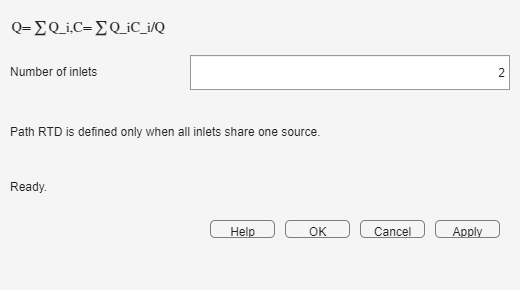
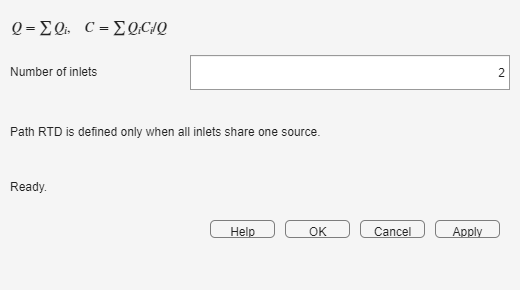
Open tracer help on its topic page and fix tracer dialog labels (T-199)
Help and library double-click open the block's guide page, the Tracer
Splitter gains Add outlet/Remove, labels no longer show raw LaTeX, and the
tracer guide images and navigation are refreshed.

Changed region(s): [[0.0, 0.0621, 0.3385, 0.1241]]

diff --git a/docs/guides/tracer-examples.html b/docs/guides/tracer-examples.html
@@ -1,9 +1,9 @@
 <!DOCTYPE html><html lang="en"><head><meta charset="utf-8"><meta name="viewport" content="width=device-width, initial-scale=1"><title>Examples - Tracer Flowsheet Guide</title><link rel="stylesheet" href="../assets/guide.css"></head><body><div class="page">
-<div class="topbar"><div class="brand">Non-ideal Tracer Flowsheet Guide</div><nav class="topnav"><a href="../TracerFlowsheetGuide.html">Guide Home</a><a href="tracer-getting-started.html">Next: Getting Started</a></nav></div><div class="crumbs"><a href="../TracerFlowsheetGuide.html">Non-ideal Tracer Flowsheet Guide</a> / <span>Worked Examples</span></div>
+<div class="topbar"><div class="brand">Non-ideal Tracer Flowsheet Guide</div><nav class="topnav"><a href="../TracerFlowsheetGuide.html">Back to guide home</a></nav></div><div class="crumbs"><a href="../TracerFlowsheetGuide.html">Non-ideal Tracer Flowsheet Guide</a> / <span>Worked Examples</span></div>
 <section class="hero"><span class="kicker">Three solved networks</span><div class="hero-grid"><div><h1>Connect the diagram to its hydrodynamic result</h1><p>Restore each example from <strong>Open example...</strong>, inspect the block settings, run it, and compare its viewer with the expected series or parallel behavior.</p></div><aside class="toc"><h2>On This Page</h2><ol><li><a href="#before">Before you start</a></li><li><a href="#two-cstr">Two CSTRs</a></li><li><a href="#parallel">PFR and CSTR</a></li><li><a href="#sec01">Former SEC01</a></li><li><a href="#mistakes">Frequent errors</a></li></ol></aside></div></section>
 <section class="section" id="before"><h2>Before You Start</h2><p>Opening an example creates or restores a writable copy. If a copy already exists, restoring it discards edits in that example. Use the examples to explore settings, then create a separate flowsheet for your own case.</p></section>
 <section class="section" id="two-cstr"><h2>Two CSTRs in Series</h2><p>Two equal CSTR blocks with &tau; = 2 s produce the analytical tanks-in-series distribution with total &tau; = 4 s and N = 2. The second vessel broadens and delays the first response; the path RTD is the convolution of both exponentials.</p><div class="card-grid"><figure class="figure-card"><img src="../assets/tracer/example-two-cstr-diagram.png" alt="Tracer example with two CSTR vessels in series"><figcaption>One source, two equal CSTR vessels, and one monitor.</figcaption></figure><figure class="figure-card"><img src="../assets/tracer/example-two-cstr-viewer.png" alt="Tracer viewer for two CSTRs in series"><figcaption>The viewer reports the series mean and variance and overlays the inlet pulse.</figcaption></figure></div></section>
 <section class="section" id="parallel"><h2>PFR and CSTR in Parallel</h2><p>The splitter sends 25% of Q through a PFR and 75% through a CSTR, both with &tau; = 3 s. The mixer creates a flow-weighted sum: a narrow plug-flow contribution appears over the broader mixed-vessel response.</p><div class="card-grid"><figure class="figure-card"><img src="../assets/tracer/example-parallel-diagram.png" alt="Tracer example with PFR and CSTR branches in parallel"><figcaption>Splitter fractions determine the contribution of each vessel at the mixer.</figcaption></figure><figure class="figure-card"><img src="../assets/tracer/example-parallel-viewer.png" alt="Tracer viewer for PFR and CSTR in parallel"><figcaption>Peak clipping exposes the broad CSTR contribution without changing results.</figcaption></figure></div></section>
 <section class="section" id="sec01"><h2>Former SEC01 Series Exercise</h2><p>The former Tab 6 series exercise is rebuilt as a visible network. A tabulated trapezoidal RTD feeds a CSTR with &tau; = 2 s. The resulting distribution matches the sequential convolution while making each physical stage explicit.</p><div class="card-grid"><figure class="figure-card"><img src="../assets/tracer/example-sec01-diagram.png" alt="Tracer SEC01 example with trapezoidal RTD and CSTR in series"><figcaption>The first vessel uses RTD data; the second uses the CSTR model.</figcaption></figure><figure class="figure-card"><img src="../assets/tracer/example-sec01-viewer.png" alt="Tracer viewer for the former SEC01 series exercise"><figcaption>The monitor presents the composed response and accumulated RTD.</figcaption></figure></div></section>
-<section class="section" id="mistakes"><h2>Frequent Errors</h2><table><tr><th>Symptom</th><th>What to do</th></tr><tr><td>An edited example is replaced</td><td>Choose the option that opens the existing copy, or save your work under another model name before restoring.</td></tr><tr><td>The parallel curve is interpreted as an unweighted average</td><td>Read the splitter fractions; the mixer weights each branch by Q.</td></tr><tr><td>SEC01 is searched for as a Tab 6 workflow</td><td>Open the tracer example; the exercise is now represented by its two vessel blocks.</td></tr></table><div class="footer-nav"><a class="button alt" href="tracer-monitor-results.html">Previous: Monitor and Results</a><a class="button" href="tracer-getting-started.html">Next: Getting Started</a></div></section>
+<section class="section" id="mistakes"><h2>Frequent Errors</h2><table><tr><th>Symptom</th><th>What to do</th></tr><tr><td>An edited example is replaced</td><td>Choose the option that opens the existing copy, or save your work under another model name before restoring.</td></tr><tr><td>The parallel curve is interpreted as an unweighted average</td><td>Read the splitter fractions; the mixer weights each branch by Q.</td></tr><tr><td>SEC01 is searched for as a Tab 6 workflow</td><td>Open the tracer example; the exercise is now represented by its two vessel blocks.</td></tr></table><div class="footer-nav"><a class="button alt" href="tracer-monitor-results.html">Previous: Monitor and Results</a><a class="button" href="../TracerFlowsheetGuide.html">Back to guide home</a></div></section>
 </div></body></html>

diff --git a/docs/guides/tracer-flowsheet.html b/docs/guides/tracer-flowsheet.html
@@ -2,7 +2,7 @@
 <div class="topbar"><div class="brand">Non-ideal Tracer Flowsheet Guide</div><nav class="topnav"><a href="../TracerFlowsheetGuide.html">Guide Home</a><a href="tracer-source.html">Next: Tracer Source</a></nav></div><div class="crumbs"><a href="../TracerFlowsheetGuide.html">Non-ideal Tracer Flowsheet Guide</a> / <span>Tracer Flowsheet</span></div>
 <section class="hero"><span class="kicker">Diagram coordinator</span><div class="hero-grid"><div><h1>Choose one time mesh for the whole diagram</h1><p>Tracer Flowsheet fixes &Delta;t, t<sub>final</sub>, and the displayed time unit. Every concentration and RTD vector in the model uses the same samples.</p></div><aside class="toc"><h2>On This Page</h2><ol><li><a href="#before">Before you start</a></li><li><a href="#dialog">Dialog</a></li><li><a href="#steps">Steps</a></li><li><a href="#truncation">Lost area</a></li><li><a href="#mistakes">Frequent errors</a></li></ol></aside></div></section>
 <section class="section" id="before"><h2>Before You Start</h2><p>Estimate the longest residence time and tail in the network. Select a final time that includes them and a time step small enough for pulses, plug-flow peaks, and sharp input changes.</p></section>
-<section class="section" id="dialog"><h2>Tracer Flowsheet Dialog</h2><figure class="figure-card"><img src="../assets/tracer/flowsheet-dialog.png" alt="Tracer Flowsheet dialog with time step, final time, and time unit"><figcaption>The coordinator applies one fixed vector t = 0:&Delta;t:t<sub>final</sub> to every tracer block.</figcaption></figure></section>
+<section class="section" id="dialog"><h2>Tracer Flowsheet Dialog</h2><figure class="figure-card"><img src="../assets/tracer/flowsheet-dialog.png" alt="Tracer Flowsheet dialog with time step, final time, and time unit"><figcaption>The coordinator applies one time vector from 0 to t<sub>final</sub> in steps of &Delta;t to every tracer block.</figcaption></figure></section>
 <section class="section" id="steps"><h2>Set the Grid</h2><ol><li>Enter a positive <strong>Time step, &Delta;t</strong>.</li><li>Enter a <strong>Final time, t<sub>final</sub></strong> greater than the time step.</li><li>Select seconds, minutes, or hours. The displayed values change unit; all blocks remain synchronized.</li><li>Press <strong>Apply</strong>, then run the diagram.</li></ol></section>
 <section class="section" id="truncation"><h2>Understand Lost Area</h2><p>Convolution may produce a tail after t<sub>final</sub>. Those samples cannot appear in the fixed output vector. The monitor compares the retained and expected areas; when the loss exceeds its threshold, increase t<sub>final</sub>. A default warning near 1% is a practical prompt, not a new normalization.</p></section>
 <section class="section" id="mistakes"><h2>Frequent Errors</h2><table><tr><th>Symptom</th><th>What to do</th></tr><tr><td>Narrow peaks look stepped</td><td>Reduce &Delta;t.</td></tr><tr><td>Recovery is low and a lost-area warning appears</td><td>Increase t<sub>final</sub>.</td></tr><tr><td>Blocks report inconsistent vector sizes</td><td>Apply the coordinator settings and run the complete model again.</td></tr></table><div class="footer-nav"><a class="button alt" href="tracer-getting-started.html">Previous: Getting Started</a><a class="button" href="tracer-source.html">Next: Tracer Source</a></div></section>

diff --git a/docs/guides/tracer-splitter.html b/docs/guides/tracer-splitter.html
@@ -3,7 +3,7 @@
 <section class="hero"><span class="kicker">Parallel paths</span><div class="hero-grid"><div><h1>Divide volumetric flow without changing C(t) or E(t)</h1><p>The splitter creates two or more branches. It scales Q by each fraction while copying the incoming concentration and accumulated RTD to every outlet.</p></div><aside class="toc"><h2>On This Page</h2><ol><li><a href="#before">Before you start</a></li><li><a href="#dialog">Dialog</a></li><li><a href="#steps">Steps</a></li><li><a href="#meaning">Physical meaning</a></li><li><a href="#mistakes">Frequent errors</a></li></ol></aside></div></section>
 <section class="section" id="before"><h2>Before You Start</h2><p>Decide how many paths are required and the fraction of inlet volumetric flow assigned to each. Every branch must eventually terminate at a monitor or return through a matching mixer.</p></section>
 <section class="section" id="dialog"><h2>Tracer Splitter Dialog</h2><figure class="figure-card"><img src="../assets/tracer/splitter-dialog.png" alt="Tracer Splitter dialog with outlet fraction table"><figcaption>Specify all but the last fraction; the remaining fraction is calculated so the total is one.</figcaption></figure></section>
-<section class="section" id="steps"><h2>Configure the Outlets</h2><ol><li>Set the required number of splitter output ports on the block.</li><li>Enter the first N&minus;1 fractions in the table.</li><li>Check the calculated final row and press <strong>Apply</strong>.</li><li>Connect each outlet to its vessel path and use a Tracer Mixer when the paths rejoin.</li></ol></section>
+<section class="section" id="steps"><h2>Configure the Outlets</h2><ol><li>Press <strong>Add outlet</strong> until the table has one row for every required branch. The splitter always keeps at least two outlets.</li><li>Use <strong>Remove</strong> to delete the last outlet when there are too many rows.</li><li>Enter the first N&minus;1 fractions in the table and check the calculated final row.</li><li>Press <strong>Apply</strong> so the block exposes the matching output ports.</li><li>Connect each outlet to its vessel path and use a Tracer Mixer when the paths rejoin.</li></ol></section>
 <section class="section" id="meaning"><h2>Interpret a Split</h2><p>A hydraulic split does not dilute the tracer at the split point: all branches receive the same concentration. Only Q changes. Differences in downstream C(t) and E(t) are created by the vessels on each branch.</p></section>
 <section class="section" id="mistakes"><h2>Frequent Errors</h2><table><tr><th>Symptom</th><th>What to do</th></tr><tr><td>The final fraction is zero or negative</td><td>Reduce the specified fractions so their sum is below one.</td></tr><tr><td>Fractions do not add to one</td><td>Enter only N&minus;1 values and let the final row be calculated.</td></tr><tr><td>A branch is left disconnected</td><td>Connect or remove it before running the complete network.</td></tr></table><div class="footer-nav"><a class="button alt" href="tracer-vessel.html">Previous: Non-ideal Vessel</a><a class="button" href="tracer-mixer.html">Next: Tracer Mixer</a></div></section>
 </div></body></html>

diff --git a/+nirp/+tracerflowsheet/SplitterDialog.m b/+nirp/+tracerflowsheet/SplitterDialog.m
@@ -8,16 +8,21 @@ classdef SplitterDialog < handle
     methods
         function obj=SplitterDialog(block,varargin),p=inputParser;addParameter(p,'Visible','on');parse(p,varargin{:});obj.BlockPath=getfullname(block);assertSystem(obj.BlockPath,'nirp.tracerblocks.Splitter');obj.build(char(p.Results.Visible));obj.setFractions(str2num(get_param(obj.BlockPath,'Fractions')));end %#ok<ST2NM>
         function delete(obj),if ~isempty(obj.Figure)&&isvalid(obj.Figure),delete(obj.Figure),end,end
-        function setFractions(obj,f),f=reshape(f,1,[]);remainder=1-sum(f);obj.FractionTable.Data=num2cell([(1:numel(f)+1)' [f remainder]']);end
+        function setFractions(obj,f),f=reshape(f,1,[]);remainder=1-sum(f);outlets=cellstr(string((1:numel(f)+1)'));obj.FractionTable.Data=[outlets num2cell([f remainder]')];end
         function addRow(obj),d=obj.FractionTable.Data;specified=cell2mat(d(1:end-1,2));specified(end+1)=0;obj.setFractions(specified);end
         function removeRow(obj),d=obj.FractionTable.Data;if size(d,1)>2,obj.setFractions(cell2mat(d(1:end-2,2)));end,end
         function value=getValues(obj),d=obj.FractionTable.Data;value=cell2mat(d(:,2))';end
-        function ok=apply(obj),ok=false;try,nirp.tracerflowsheet.validateSeparation(bdroot(obj.BlockPath));values=obj.getValues();specified=values(1:end-1);[~,closed]=nirp.tracer.splitter(nirp.tracerflowsheet.gridForBlock(obj.BlockPath),nirp.tracer.source(nirp.tracerflowsheet.gridForBlock(obj.BlockPath),1,ones(1,nirp.tracerflowsheet.gridForBlock(obj.BlockPath).length),1),specified);obj.setFractions(specified);set_param(obj.BlockPath,'Fractions',mat2str(specified,17));obj.StatusLabel.Text=sprintf('Fully specified; calculated final fraction = %.6g',closed(end));obj.StatusLabel.BackgroundColor=[.82 .94 .82];ok=true;catch e,obj.StatusLabel.Text=e.message;obj.StatusLabel.BackgroundColor=[1 .75 .75];end,end
+        function ok=apply(obj),ok=false;try,nirp.tracerflowsheet.validateSeparation(bdroot(obj.BlockPath));values=obj.getValues();specified=values(1:end-1);[~,closed]=nirp.tracer.splitter(nirp.tracerflowsheet.gridForBlock(obj.BlockPath),nirp.tracer.source(nirp.tracerflowsheet.gridForBlock(obj.BlockPath),1,ones(1,nirp.tracerflowsheet.gridForBlock(obj.BlockPath).length),1),specified);obj.setFractions(specified);set_param(obj.BlockPath,'Fractions',mat2str(specified,17));set_param(bdroot(obj.BlockPath),'SimulationCommand','update');obj.StatusLabel.Text=sprintf('Fully specified; calculated final fraction = %.6g',closed(end));obj.StatusLabel.BackgroundColor=[.82 .94 .82];ok=true;catch e,obj.StatusLabel.Text=e.message;obj.StatusLabel.BackgroundColor=[1 .75 .75];end,end
         function accept(obj),if obj.apply(),delete(obj),end,end
         function cancel(obj),delete(obj),end
     end
-    methods (Static),function dialog=open(block),dialog=nirp.tracerflowsheet.SplitterDialog(block);end,end
-    methods (Access=private),function build(obj,visible),obj.Figure=uifigure('Name','Tracer Splitter','Tag','NirpTracerSplitterDialog','Visible',visible,'Position',[220 120 560 430]);g=uigridlayout(obj.Figure,[4 3],'RowHeight',{45,'1x',25,38},'ColumnWidth',{90,90,'1x'});note=uilabel(g,'Text','Specify N-1 fractions; the last outlet is calculated from \sum f_i=1.','Interpreter','latex');note.Layout.Column=[1 3];obj.FractionTable=uitable(g,'ColumnName',{'Outlet','Fraction'},'ColumnEditable',[false true]);obj.FractionTable.Layout.Column=[1 3];obj.StatusLabel=uilabel(g,'Text','Ready.','WordWrap','on');obj.StatusLabel.Layout.Column=[1 3];buttons(obj,g,'splitter');end,end
+    methods (Static)
+        function dialog=open(block)
+            if nirp.tracerflowsheet.openLibraryBlockGuide(block),dialog=[];return,end
+            dialog=nirp.tracerflowsheet.SplitterDialog(block);
+        end
+    end
+    methods (Access=private),function build(obj,visible),obj.Figure=uifigure('Name','Tracer Splitter','Tag','NirpTracerSplitterDialog','Visible',visible,'Position',[220 120 560 430]);g=uigridlayout(obj.Figure,[5 3],'RowHeight',{45,'1x',32,25,38},'ColumnWidth',{90,90,'1x'});note=uilabel(g,'Text','Specify N-1 fractions; the last outlet is calculated so all fractions sum to 1.');note.Layout.Row=1;note.Layout.Column=[1 3];obj.FractionTable=uitable(g,'ColumnName',{'Outlet','Fraction'},'ColumnEditable',[false true]);obj.FractionTable.Layout.Row=2;obj.FractionTable.Layout.Column=[1 3];add=uibutton(g,'Text','Add outlet','ButtonPushedFcn',@(~,~)obj.addRow());add.Layout.Row=3;add.Layout.Column=1;remove=uibutton(g,'Text','Remove','ButtonPushedFcn',@(~,~)obj.removeRow());remove.Layout.Row=3;remove.Layout.Column=2;obj.StatusLabel=uilabel(g,'Text','Ready.','WordWrap','on');obj.StatusLabel.Layout.Row=4;obj.StatusLabel.Layout.Column=[1 3];buttons(obj,g,'splitter');end,end
 end
 function assertSystem(block,expected),if string(get_param(block,'System'))~=expected,error('nirp:tracerflowsheet:InvalidBlock','Dialog received the wrong block type.'),end,end
-function buttons(obj,g,anchor),b=uigridlayout(g,[1 5],'ColumnWidth',{'1x',65,65,65,65});b.Layout.Column=[1 3];uilabel(b,'Text','');uibutton(b,'Text','Help','ButtonPushedFcn',@(~,~)openNirpGuide(nirp.tracerflowsheet.helpTarget(anchor)));uibutton(b,'Text','OK','ButtonPushedFcn',@(~,~)obj.accept());uibutton(b,'Text','Cancel','ButtonPushedFcn',@(~,~)obj.cancel());uibutton(b,'Text','Apply','ButtonPushedFcn',@(~,~)obj.apply());end
+function buttons(obj,g,anchor),b=uigridlayout(g,[1 5],'ColumnWidth',{'1x',65,65,65,65});b.Layout.Row=5;b.Layout.Column=[1 3];uilabel(b,'Text','');uibutton(b,'Text','Help','ButtonPushedFcn',@(~,~)openNirpGuide(nirp.tracerflowsheet.helpTarget(anchor)));uibutton(b,'Text','OK','ButtonPushedFcn',@(~,~)obj.accept());uibutton(b,'Text','Cancel','ButtonPushedFcn',@(~,~)obj.cancel());uibutton(b,'Text','Apply','ButtonPushedFcn',@(~,~)obj.apply());end

diff --git a/tests/NirpTracerBlocksTest.m b/tests/NirpTracerBlocksTest.m
@@ -36,8 +36,24 @@ classdef NirpTracerBlocksTest < matlab.unittest.TestCase
             m=nirp.tracerflowsheet.MixerDialog([name '/Mixer'],'Visible','off');m.setNumInputs(3);testCase.verifyTrue(m.apply());delete(m);m=nirp.tracerflowsheet.MixerDialog([name '/Mixer'],'Visible','off');testCase.verifyEqual(m.getValues(),3);delete(m);
             monitor=nirp.tracerflowsheet.MonitorDialog([name '/Monitor'],'Visible','off');monitor.WarningField.Value=2;testCase.verifyTrue(monitor.apply());delete(monitor);monitor=nirp.tracerflowsheet.MonitorDialog([name '/Monitor'],'Visible','off');testCase.verifyEqual(monitor.getValues(),0.02,'AbsTol',1e-14);delete(monitor);
         end
+        function splitterButtonsChangeOutletCountAndPorts(testCase)
+            name='tracer_splitter_dialog';nirp.tracerflowsheet.new(name,testCase.Folder,'OpenModel',false);load_system(fullfile(testCase.Folder,[name '.slx']));
+            addTracer(name,'Splitter','nirp.tracerblocks.Splitter',[240 150 390 230],{});block=[name '/Splitter'];dialog=nirp.tracerflowsheet.SplitterDialog(block,'Visible','off');testCase.addTeardown(@()deleteValid(dialog));
+            add=findall(dialog.Figure,'Type','uibutton','Text','Add outlet');remove=findall(dialog.Figure,'Type','uibutton','Text','Remove');testCase.verifyNumElements(add,1);testCase.verifyNumElements(remove,1);
+            feval(add.ButtonPushedFcn,add,[]);testCase.verifyEqual(size(dialog.FractionTable.Data,1),3);testCase.verifyEqual(dialog.FractionTable.Data(:,1),{'1';'2';'3'});testCase.verifyTrue(dialog.apply());testCase.verifyEqual(str2num(get_param(block,'Fractions')),[0.5 0],'AbsTol',1e-14);ports=get_param(block,'PortHandles');testCase.verifyNumElements(ports.Outport,3); %#ok<ST2NM>
+            feval(remove.ButtonPushedFcn,remove,[]);feval(remove.ButtonPushedFcn,remove,[]);testCase.verifyEqual(size(dialog.FractionTable.Data,1),2);
+            dialog.setFractions([0.8 0.4]);testCase.verifyFalse(dialog.apply());testCase.verifyEqual(str2num(get_param(block,'Fractions')),[0.5 0],'AbsTol',1e-14); %#ok<ST2NM>
+        end
+        function tracerDialogLatexCommandsAreDelimited(testCase)
+            name='tracer_dialog_labels';nirp.tracerflowsheet.new(name,testCase.Folder,'OpenModel',false);load_system(fullfile(testCase.Folder,[name '.slx']));
+            addTracer(name,'Source','nirp.tracerblocks.Source',[40 150 170 210],{});addTracer(name,'Vessel','nirp.tracerblocks.Vessel',[230 150 370 210],{});addTracer(name,'Splitter','nirp.tracerblocks.Splitter',[430 150 570 210],{});addTracer(name,'Mixer','nirp.tracerblocks.Mixer',[430 260 570 320],{});addTracer(name,'Monitor','nirp.tracerblocks.Monitor',[630 150 760 210],{});
+            dialogs={nirp.tracerflowsheet.FlowsheetDialog([name '/Tracer Flowsheet'],'Visible','off'),nirp.tracerflowsheet.SourceDialog([name '/Source'],'Visible','off'),nirp.tracerflowsheet.VesselDialog([name '/Vessel'],'Visible','off'),nirp.tracerflowsheet.SplitterDialog([name '/Splitter'],'Visible','off'),nirp.tracerflowsheet.MixerDialog([name '/Mixer'],'Visible','off'),nirp.tracerflowsheet.MonitorDialog([name '/Monitor'],'Visible','off')};testCase.addTeardown(@()deleteDialogs(dialogs));
+            for dialogIndex=1:numel(dialogs),labels=findall(dialogs{dialogIndex}.Figure,'Type','uilabel');for labelIndex=1:numel(labels),text=string(labels(labelIndex).Text);if strcmpi(labels(labelIndex).Interpreter,'latex')&&contains(text,'\'),testCase.verifyTrue(startsWith(text,'$')&&endsWith(text,'$'),sprintf('Undelimited LaTeX in %s: %s',class(dialogs{dialogIndex}),text));elseif ~strcmpi(labels(labelIndex).Interpreter,'latex'),testCase.verifyFalse(contains(text,'\'),sprintf('Backslash in plain label from %s: %s',class(dialogs{dialogIndex}),text));end,end,end
+        end
     end
 end
 function addTracer(model,name,system,position,parameters),block=[model '/' name];add_block('simulink/User-Defined Functions/MATLAB System',block,'System',system,'Position',position);for k=1:2:numel(parameters),set_param(block,parameters{k},parameters{k+1});end;nirp.tracerflowsheet.setupBlock(block);end
 function configure(name),set_param(name,'SolverType','Fixed-step','Solver','FixedStepDiscrete','FixedStep','0.05','StartTime','0','StopTime','0');save_system(name);end
 function closeAllModels(),models=find_system('Type','block_diagram');for k=1:numel(models),try,close_system(models{k},0);catch,end,end;end
+function deleteValid(value),if ~isempty(value)&&isvalid(value),delete(value);end,end
+function deleteDialogs(values),for k=1:numel(values),deleteValid(values{k});end,end

diff --git a/+nirp/+tracerflowsheet/VesselDialog.m b/+nirp/+tracerflowsheet/VesselDialog.m
@@ -25,10 +25,15 @@ classdef VesselDialog < handle
         function accept(obj),if obj.apply(),delete(obj),end,end
         function cancel(obj),delete(obj),end
     end
-    methods (Static),function dialog=open(block),dialog=nirp.tracerflowsheet.VesselDialog(block);end,end
+    methods (Static)
+        function dialog=open(block)
+            if nirp.tracerflowsheet.openLibraryBlockGuide(block),dialog=[];return,end
+            dialog=nirp.tracerflowsheet.VesselDialog(block);
+        end
+    end
     methods (Access=private)
         function load(obj),obj.OriginDropDown.Value=get_param(obj.BlockPath,'Origin');obj.ModelDropDown.Value=get_param(obj.BlockPath,'Model');obj.BasisDropDown.Value=get_param(obj.BlockPath,'ResidenceBasis');obj.TauField.Value=str2double(get_param(obj.BlockPath,'Tau'));obj.VolumeField.Value=str2double(get_param(obj.BlockPath,'Volume'));obj.NField.Value=str2double(get_param(obj.BlockPath,'N'));obj.PeField.Value=str2double(get_param(obj.BlockPath,'Pe'));obj.BoundaryDropDown.Value=get_param(obj.BlockPath,'Boundary');obj.DataTable.Data=num2cell([str2num(get_param(obj.BlockPath,'DataTime'))' str2num(get_param(obj.BlockPath,'DataE'))']);obj.SessionField.Value=get_param(obj.BlockPath,'SessionFile');end %#ok<ST2NM>
-        function build(obj,visible),obj.Figure=uifigure('Name','Non-ideal Vessel','Tag','NirpTracerVesselDialog','Visible',visible,'Position',[170 80 780 620]);g=uigridlayout(obj.Figure,[10 3],'RowHeight',{35,35,35,35,35,35,35,'1x',25,38},'ColumnWidth',{170,'1x',120});title=uilabel(g,'Text','C_{out}(t)=C_{in}(t)*E_v(t)','Interpreter','latex','FontWeight','bold');title.Layout.Column=[1 3];uilabel(g,'Text','RTD origin');obj.OriginDropDown=uidropdown(g,'Items',{'Model','Data','Session'});uilabel(g,'Text','');uilabel(g,'Text','Model');obj.ModelDropDown=uidropdown(g,'Items',{'CSTR','PFR','Tanks','Dispersion'});obj.BasisDropDown=uidropdown(g,'Items',{'Tau','Volume'});uilabel(g,'Text','Residence time, \tau (s)','Interpreter','latex');obj.TauField=uieditfield(g,'numeric');uilabel(g,'Text','');uilabel(g,'Text','Volume, V (m^3)','Interpreter','latex');obj.VolumeField=uieditfield(g,'numeric');uilabel(g,'Text','');uilabel(g,'Text','Tanks, N');obj.NField=uieditfield(g,'numeric');uilabel(g,'Text','');uilabel(g,'Text','Peclet number, Pe');obj.PeField=uieditfield(g,'numeric');obj.BoundaryDropDown=uidropdown(g,'Items',{'open','closed'});uilabel(g,'Text','Session (.mat)');obj.SessionField=uieditfield(g,'text');uilabel(g,'Text','');obj.DataTable=uitable(g,'ColumnName',{'t (s)','E (1/s)'},'ColumnEditable',true);obj.DataTable.Layout.Column=[1 3];obj.StatusLabel=uilabel(g,'Text','Ready.','WordWrap','on');obj.StatusLabel.Layout.Column=[1 3];buttons(obj,g,'vessel');end
+        function build(obj,visible),obj.Figure=uifigure('Name','Non-ideal Vessel','Tag','NirpTracerVesselDialog','Visible',visible,'Position',[170 80 780 620]);g=uigridlayout(obj.Figure,[10 3],'RowHeight',{35,35,35,35,35,35,35,'1x',25,38},'ColumnWidth',{170,'1x',120});title=uilabel(g,'Text','$C_{out}(t)=C_{in}(t)*E_v(t)$','Interpreter','latex','FontWeight','bold');title.Layout.Column=[1 3];uilabel(g,'Text','RTD origin');obj.OriginDropDown=uidropdown(g,'Items',{'Model','Data','Session'});uilabel(g,'Text','');uilabel(g,'Text','Model');obj.ModelDropDown=uidropdown(g,'Items',{'CSTR','PFR','Tanks','Dispersion'});obj.BasisDropDown=uidropdown(g,'Items',{'Tau','Volume'});uilabel(g,'Text','Residence time, τ (s)');obj.TauField=uieditfield(g,'numeric');uilabel(g,'Text','');uilabel(g,'Text','Volume, V (m³)');obj.VolumeField=uieditfield(g,'numeric');uilabel(g,'Text','');uilabel(g,'Text','Tanks, N');obj.NField=uieditfield(g,'numeric');uilabel(g,'Text','');uilabel(g,'Text','Peclet number, Pe');obj.PeField=uieditfield(g,'numeric');obj.BoundaryDropDown=uidropdown(g,'Items',{'open','closed'});uilabel(g,'Text','Session (.mat)');obj.SessionField=uieditfield(g,'text');uilabel(g,'Text','');obj.DataTable=uitable(g,'ColumnName',{'t (s)','E (1/s)'},'ColumnEditable',true);obj.DataTable.Layout.Column=[1 3];obj.StatusLabel=uilabel(g,'Text','Ready.','WordWrap','on');obj.StatusLabel.Layout.Column=[1 3];buttons(obj,g,'vessel');end
     end
 end
 function assertSystem(block,expected),if string(get_param(block,'System'))~=expected,error('nirp:tracerflowsheet:InvalidBlock','Dialog received the wrong block type.'),end,end

diff --git a/+nirp/+tracerflowsheet/SourceDialog.m b/+nirp/+tracerflowsheet/SourceDialog.m
@@ -26,10 +26,15 @@ classdef SourceDialog < handle
         function accept(obj),if obj.apply(),delete(obj),end,end
         function cancel(obj),delete(obj),end
     end
-    methods (Static),function dialog=open(block),dialog=nirp.tracerflowsheet.SourceDialog(block);end,end
+    methods (Static)
+        function dialog=open(block)
+            if nirp.tracerflowsheet.openLibraryBlockGuide(block),dialog=[];return,end
+            dialog=nirp.tracerflowsheet.SourceDialog(block);
+        end
+    end
     methods (Access=private)
         function load(obj),obj.QUnitDropDown.Value=get_param(obj.BlockPath,'QUnit');obj.QField.Value=UnitConverterHelper.convertFromSI('VolumetricFlow',str2double(get_param(obj.BlockPath,'Q')),obj.QUnitDropDown.Value);mode=get_param(obj.BlockPath,'SignalMode');if strcmpi(mode,'Data'),obj.setData(str2num(get_param(obj.BlockPath,'DataTime')),str2num(get_param(obj.BlockPath,'DataConcentration')));else,obj.setFunction(str2num(get_param(obj.BlockPath,'FunctionEdges')),eval(get_param(obj.BlockPath,'FunctionExpressions')));end,end %#ok<ST2NM,EVLDIR>
-        function build(obj,visible),obj.Figure=uifigure('Name','Tracer Source','Tag','NirpTracerSourceDialog','Visible',visible,'Position',[180 100 720 520]);g=uigridlayout(obj.Figure,[6 3],'RowHeight',{35,35,35,'1x',25,38},'ColumnWidth',{150,'1x',230});t=uilabel(g,'Text','Tracer inlet, C_{in}(t)','Interpreter','latex','FontWeight','bold');t.Layout.Column=[1 3];uilabel(g,'Text','Volumetric flow, Q');obj.QField=uieditfield(g,'numeric');obj.QUnitDropDown=uidropdown(g,'Items',UnitConverterHelper.getUnits('VolumetricFlow'));uilabel(g,'Text','Signal definition');obj.ModeDropDown=uidropdown(g,'Items',{'Data','Function'});panel=uigridlayout(g,[1 3],'ColumnWidth',{65,75,75});uibutton(panel,'Text','Add row','ButtonPushedFcn',@(~,~)obj.addRow());uibutton(panel,'Text','Remove','ButtonPushedFcn',@(~,~)obj.removeRow());uibutton(panel,'Text','Import...','ButtonPushedFcn',@(~,~)obj.importInteractive());obj.SignalTable=uitable(g,'ColumnEditable',true);obj.SignalTable.Layout.Column=[1 3];obj.StatusLabel=uilabel(g,'Text','Ready.','WordWrap','on');obj.StatusLabel.Layout.Column=[1 3];buttons(obj,g,'source');end
+        function build(obj,visible),obj.Figure=uifigure('Name','Tracer Source','Tag','NirpTracerSourceDialog','Visible',visible,'Position',[180 100 720 520]);g=uigridlayout(obj.Figure,[6 3],'RowHeight',{35,35,35,'1x',25,38},'ColumnWidth',{150,'1x',230});t=uilabel(g,'Text','$\mathrm{Tracer\ inlet},\ C_{in}(t)$','Interpreter','latex','FontWeight','bold');t.Layout.Column=[1 3];uilabel(g,'Text','Volumetric flow, Q');obj.QField=uieditfield(g,'numeric');obj.QUnitDropDown=uidropdown(g,'Items',UnitConverterHelper.getUnits('VolumetricFlow'));uilabel(g,'Text','Signal definition');obj.ModeDropDown=uidropdown(g,'Items',{'Data','Function'});panel=uigridlayout(g,[1 3],'ColumnWidth',{65,75,75});uibutton(panel,'Text','Add row','ButtonPushedFcn',@(~,~)obj.addRow());uibutton(panel,'Text','Remove','ButtonPushedFcn',@(~,~)obj.removeRow());uibutton(panel,'Text','Import...','ButtonPushedFcn',@(~,~)obj.importInteractive());obj.SignalTable=uitable(g,'ColumnEditable',true);obj.SignalTable.Layout.Column=[1 3];obj.StatusLabel=uilabel(g,'Text','Ready.','WordWrap','on');obj.StatusLabel.Layout.Column=[1 3];buttons(obj,g,'source');end
     end
 end
 function text=cellLiteral(values),quoted="'"+replace(values,"'","''")+"'";text=['{' char(strjoin(quoted,',')) '}'];end

diff --git a/tests/NirpLibraryGuidesTest.m b/tests/NirpLibraryGuidesTest.m
@@ -2,7 +2,7 @@ classdef NirpLibraryGuidesTest < matlab.unittest.TestCase
     % NirpLibraryGuidesTest verifies help opened from library block callbacks.
     % =====================================================================
     % Javier Berenguer Sabater
-    % Created: October 17, 2026. Last update: October 17, 2026
+    % Created: October 17, 2026. Last update: October 22, 2026
     % =====================================================================
 
     methods (Test)
@@ -45,12 +45,59 @@ classdef NirpLibraryGuidesTest < matlab.unittest.TestCase
                 openedPath = string(relativePath) ;
             end
         end
+
+        function everyTracerLibraryBlockOpensItsTopicGuide(testCase)
+            import matlab.unittest.fixtures.TemporaryFolderFixture
+            root = fileparts(fileparts(mfilename('fullpath'))) ;
+            fixture = testCase.applyFixture(TemporaryFolderFixture) ;
+            simulinkFolder = fullfile(root, 'simulink') ;
+            addpath(simulinkFolder) ;
+            testCase.addTeardown(@() rmpath(simulinkFolder)) ;
+            libraryFile = build_tracer_library(fixture.Folder) ;
+            load_system(libraryFile) ;
+            testCase.addTeardown(@() closeTracerLibrary()) ;
+
+            openedPath = "" ;
+            setappdata(groot, 'NirpGuideOpenOverride', @recordGuidePath) ;
+            testCase.addTeardown(@() clearGuideOverride()) ;
+            expected = { ...
+                'Tracer Flowsheet', 'guides/tracer-flowsheet.html#dialog' ; ...
+                'Tracer Source', 'guides/tracer-source.html#dialog' ; ...
+                'Non-ideal Vessel', 'guides/tracer-vessel.html#dialog' ; ...
+                'Tracer Splitter', 'guides/tracer-splitter.html#dialog' ; ...
+                'Tracer Mixer', 'guides/tracer-mixer.html#dialog' ; ...
+                'Tracer Monitor', 'guides/tracer-monitor-results.html#dialog'} ;
+            dialogTags = ["NirpTracerFlowsheetDialog", ...
+                "NirpTracerSourceDialog", "NirpTracerVesselDialog", ...
+                "NirpTracerSplitterDialog", "NirpTracerMixerDialog", ...
+                "NirpTracerMonitorDialog"] ;
+
+            for index = 1:size(expected, 1)
+                openedPath = "" ;
+                block = ['NirpTracerLibrary/' expected{index, 1}] ;
+                open_system(block) ;
+                testCase.verifyEqual(openedPath, string(expected{index, 2}), ...
+                    sprintf('Wrong guide opened by %s.', block)) ;
+                testCase.verifyEmpty(findall(groot, 'Tag', dialogTags(index)), ...
+                    sprintf('%s opened a dialog from the library.', block)) ;
+            end
+
+            function recordGuidePath(relativePath)
+                openedPath = string(relativePath) ;
+            end
+        end
     end
 end
 
 function closeLibrary()
     if bdIsLoaded('NirpLibrary')
         close_system('NirpLibrary', 0) ;
+    end
+end
+
+function closeTracerLibrary()
+    if bdIsLoaded('NirpTracerLibrary')
+        close_system('NirpTracerLibrary', 0) ;
     end
 end
 

diff --git a/tests/NirpGuidesTest.m b/tests/NirpGuidesTest.m
@@ -67,15 +67,22 @@ classdef NirpGuidesTest < matlab.unittest.TestCase
 
         function tracerHelpTargetsHaveAnchorsOnTheirOwnGuide(testCase)
             root = fileparts(fileparts(mfilename('fullpath'))) ;
-            page = fullfile(root, 'docs', 'TracerFlowsheetGuide.html') ;
-            html = string(fileread(page)) ;
-            anchors = ["flowsheet", "source", "vessel", "splitter", ...
-                "mixer", "monitor"] ;
-            for anchor = anchors
-                target = string(nirp.tracerflowsheet.helpTarget(anchor)) ;
-                testCase.verifyEqual(target, ...
-                    "TracerFlowsheetGuide.html#" + anchor) ;
-                testCase.verifySubstring(html, "id=""" + anchor + """") ;
+            expected = { ...
+                'flowsheet', 'tracer-flowsheet.html' ; ...
+                'source', 'tracer-source.html' ; ...
+                'vessel', 'tracer-vessel.html' ; ...
+                'splitter', 'tracer-splitter.html' ; ...
+                'mixer', 'tracer-mixer.html' ; ...
+                'monitor', 'tracer-monitor-results.html'} ;
+            for index = 1:size(expected, 1)
+                target = string(nirp.tracerflowsheet.helpTarget( ...
+                    expected{index, 1})) ;
+                relativePage = "guides/" + expected{index, 2} ;
+                testCase.verifyEqual(target, relativePage + "#dialog") ;
+                page = fullfile(root, 'docs', 'guides', ...
+                    expected{index, 2}) ;
+                html = string(fileread(page)) ;
+                testCase.verifySubstring(html, 'id="dialog"') ;
             end
         end
 
@@ -328,7 +335,7 @@ classdef NirpGuidesTest < matlab.unittest.TestCase
                 "tracer-splitter.html", "tracer-mixer.html", ...
                 "tracer-monitor-results.html", "tracer-examples.html"] ;
             required = ["hero-grid", "aside class=""toc""", ...
-                "Before You Start", "Previous", "Next"] ;
+                "Before You Start", "Previous"] ;
             for name = names
                 page = fullfile(root, 'docs', 'guides', name) ;
                 html = string(fileread(page)) ;
@@ -336,6 +343,14 @@ classdef NirpGuidesTest < matlab.unittest.TestCase
                     testCase.verifySubstring(html, token, sprintf( ...
                         '%s is missing required topic structure: %s', page, token)) ;
                 end
+                if name == "tracer-examples.html"
+                    finalLink = "Back to guide home" ;
+                else
+                    finalLink = "Next" ;
+                end
+                testCase.verifySubstring(html, finalLink, sprintf( ...
+                    '%s is missing required topic navigation: %s', ...
+                    page, finalLink)) ;
             end
         end
     end

diff --git a/+nirp/+tracerflowsheet/MonitorDialog.m b/+nirp/+tracerflowsheet/MonitorDialog.m
@@ -13,7 +13,12 @@ classdef MonitorDialog < handle
         function accept(obj),if obj.apply(),delete(obj),end,end
         function cancel(obj),delete(obj),end
     end
-    methods (Static),function dialog=open(block),dialog=nirp.tracerflowsheet.MonitorDialog(block);end,end
-    methods (Access=private),function build(obj,visible),obj.Figure=uifigure('Name','Tracer Monitor','Tag','NirpTracerMonitorDialog','Visible',visible,'Position',[230 140 600 340]);g=uigridlayout(obj.Figure,[6 2],'RowHeight',{35,55,35,55,25,38},'ColumnWidth',{220,'1x'});t=uilabel(g,'Text','C(t), \tau, \sigma^2, \sigma_\theta^2, N\approx1/\sigma_\theta^2','Interpreter','latex','FontWeight','bold');t.Layout.Column=[1 2];note=uilabel(g,'Text','The source signal is retained by sourceId; the accumulated E is the network RTD.','WordWrap','on');note.Layout.Column=[1 2];uilabel(g,'Text','Lost-area warning (%)');obj.WarningField=uieditfield(g,'numeric');use=uilabel(g,'Text','Use as RTD in Tab 1 is disabled when status indicates multiple sources.','WordWrap','on');use.Layout.Column=[1 2];obj.StatusLabel=uilabel(g,'Text','Ready.');obj.StatusLabel.Layout.Column=[1 2];buttons(obj,g,'monitor');end,end
+    methods (Static)
+        function dialog=open(block)
+            if nirp.tracerflowsheet.openLibraryBlockGuide(block),dialog=[];return,end
+            dialog=nirp.tracerflowsheet.MonitorDialog(block);
+        end
+    end
+    methods (Access=private),function build(obj,visible),obj.Figure=uifigure('Name','Tracer Monitor','Tag','NirpTracerMonitorDialog','Visible',visible,'Position',[230 140 600 340]);g=uigridlayout(obj.Figure,[6 2],'RowHeight',{35,55,35,55,25,38},'ColumnWidth',{220,'1x'});t=uilabel(g,'Text','C(t), τ, σ², σ²θ, N ≈ 1/σ²θ','FontWeight','bold');t.Layout.Column=[1 2];note=uilabel(g,'Text','The source signal is retained by sourceId; the accumulated E is the network RTD.','WordWrap','on');note.Layout.Column=[1 2];uilabel(g,'Text','Lost-area warning (%)');obj.WarningField=uieditfield(g,'numeric');use=uilabel(g,'Text','Use as RTD in Tab 1 is disabled when status indicates multiple sources.','WordWrap','on');use.Layout.Column=[1 2];obj.StatusLabel=uilabel(g,'Text','Ready.');obj.StatusLabel.Layout.Column=[1 2];buttons(obj,g,'monitor');end,end
 end
 function buttons(obj,g,anchor),b=uigridlayout(g,[1 5],'ColumnWidth',{'1x',65,65,65,65});b.Layout.Column=[1 2];uilabel(b,'Text','');uibutton(b,'Text','Help','ButtonPushedFcn',@(~,~)openNirpGuide(nirp.tracerflowsheet.helpTarget(anchor)));uibutton(b,'Text','OK','ButtonPushedFcn',@(~,~)obj.accept());uibutton(b,'Text','Cancel','ButtonPushedFcn',@(~,~)obj.cancel());uibutton(b,'Text','Apply','ButtonPushedFcn',@(~,~)obj.apply());end

diff --git a/+nirp/+tracerflowsheet/FlowsheetDialog.m b/+nirp/+tracerflowsheet/FlowsheetDialog.m
@@ -18,13 +18,18 @@ classdef FlowsheetDialog < handle
         function accept(obj),if obj.apply(),delete(obj),end,end
         function cancel(obj),delete(obj),end
     end
-    methods (Static),function dialog=open(block),dialog=nirp.tracerflowsheet.FlowsheetDialog(block);end,end
+    methods (Static)
+        function dialog=open(block)
+            if nirp.tracerflowsheet.openLibraryBlockGuide(block),dialog=[];return,end
+            dialog=nirp.tracerflowsheet.FlowsheetDialog(block);
+        end
+    end
     methods (Access=private)
         function load(obj),unit=get_param(obj.BlockPath,'TimeUnit');factor=nirp.tracerflowsheet.timeFactor(unit);obj.UnitDropDown.Value=unit;obj.DtField.Value=str2double(get_param(obj.BlockPath,'Dt'))/factor;obj.TFinalField.Value=str2double(get_param(obj.BlockPath,'TFinal'))/factor;end
         function build(obj,visible)
             obj.Figure=uifigure('Name','Tracer Flowsheet','Tag','NirpTracerFlowsheetDialog','Visible',visible,'Position',[200 150 560 330]);g=uigridlayout(obj.Figure,[6 3],'RowHeight',{35,35,35,45,25,38},'ColumnWidth',{150,'1x',90});
-            title=uilabel(g,'Text','Common tracer time grid','FontWeight','bold','FontSize',15);title.Layout.Column=[1 3];uilabel(g,'Text','Time step, \Deltat','Interpreter','latex');obj.DtField=uieditfield(g,'numeric');obj.UnitDropDown=uidropdown(g,'Items',{'s','min','h'});uilabel(g,'Text','Final time, t_{final}','Interpreter','latex');obj.TFinalField=uieditfield(g,'numeric');uilabel(g,'Text','');
-            note=uilabel(g,'Text','All NirpTracer vectors use t = 0:\Deltat:t_{final}; values beyond t_{final} are truncated.','Interpreter','latex','WordWrap','on');note.Layout.Column=[1 3];obj.StatusLabel=uilabel(g,'Text','Ready.','WordWrap','on');obj.StatusLabel.Layout.Column=[1 3];buttons(obj,g,'flowsheet');
+            title=uilabel(g,'Text','Common tracer time grid','FontWeight','bold','FontSize',15);title.Layout.Column=[1 3];uilabel(g,'Text','Time step, Δt');obj.DtField=uieditfield(g,'numeric');obj.UnitDropDown=uidropdown(g,'Items',{'s','min','h'});uilabel(g,'Text','Final time, t_final');obj.TFinalField=uieditfield(g,'numeric');uilabel(g,'Text','');
+            note=uilabel(g,'Text','All tracer signals share one time vector from 0 to t_final in steps of Δt; values beyond t_final are truncated.','WordWrap','on');note.Layout.Column=[1 3];obj.StatusLabel=uilabel(g,'Text','Ready.','WordWrap','on');obj.StatusLabel.Layout.Column=[1 3];buttons(obj,g,'flowsheet');
         end
     end
 end

diff --git a/+nirp/+tracerflowsheet/MixerDialog.m b/+nirp/+tracerflowsheet/MixerDialog.m
@@ -14,7 +14,12 @@ classdef MixerDialog < handle
         function accept(obj),if obj.apply(),delete(obj),end,end
         function cancel(obj),delete(obj),end
     end
-    methods (Static),function dialog=open(block),dialog=nirp.tracerflowsheet.MixerDialog(block);end,end
-    methods (Access=private),function build(obj,visible),obj.Figure=uifigure('Name','Tracer Mixer','Tag','NirpTracerMixerDialog','Visible',visible,'Position',[240 180 520 290]);g=uigridlayout(obj.Figure,[5 2],'RowHeight',{35,35,65,25,38},'ColumnWidth',{170,'1x'});t=uilabel(g,'Text','Q=\sum Q_i,  C=\sum Q_i C_i/Q','Interpreter','latex','FontWeight','bold');t.Layout.Column=[1 2];uilabel(g,'Text','Number of inlets');obj.NumInputsField=uieditfield(g,'numeric');note=uilabel(g,'Text','Path RTD is defined only when all inlets share one source.','WordWrap','on');note.Layout.Column=[1 2];obj.StatusLabel=uilabel(g,'Text','Ready.');obj.StatusLabel.Layout.Column=[1 2];buttons(obj,g,'mixer');end,end
+    methods (Static)
+        function dialog=open(block)
+            if nirp.tracerflowsheet.openLibraryBlockGuide(block),dialog=[];return,end
+            dialog=nirp.tracerflowsheet.MixerDialog(block);
+        end
+    end
+    methods (Access=private),function build(obj,visible),obj.Figure=uifigure('Name','Tracer Mixer','Tag','NirpTracerMixerDialog','Visible',visible,'Position',[240 180 520 290]);g=uigridlayout(obj.Figure,[5 2],'RowHeight',{35,35,65,25,38},'ColumnWidth',{170,'1x'});t=uilabel(g,'Text','$Q=\sum Q_i,\quad C=\sum Q_i C_i/Q$','Interpreter','latex','FontWeight','bold');t.Layout.Column=[1 2];uilabel(g,'Text','Number of inlets');obj.NumInputsField=uieditfield(g,'numeric');note=uilabel(g,'Text','Path RTD is defined only when all inlets share one source.','WordWrap','on');note.Layout.Column=[1 2];obj.StatusLabel=uilabel(g,'Text','Ready.');obj.StatusLabel.Layout.Column=[1 2];buttons(obj,g,'mixer');end,end
 end
 function buttons(obj,g,anchor),b=uigridlayout(g,[1 5],'ColumnWidth',{'1x',65,65,65,65});b.Layout.Column=[1 2];uilabel(b,'Text','');uibutton(b,'Text','Help','ButtonPushedFcn',@(~,~)openNirpGuide(nirp.tracerflowsheet.helpTarget(anchor)));uibutton(b,'Text','OK','ButtonPushedFcn',@(~,~)obj.accept());uibutton(b,'Text','Cancel','ButtonPushedFcn',@(~,~)obj.cancel());uibutton(b,'Text','Apply','ButtonPushedFcn',@(~,~)obj.apply());end
